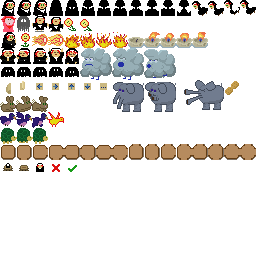
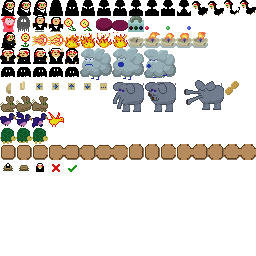
locks and treadles, and we're done with core gameplay

Changed region(s): [[0.375, 0.0625, 0.5938, 0.125], [0.7188, 0.0938, 0.75, 0.125]]

diff --git a/src/game/sprite/types/sprite_treadle.c b/src/game/sprite/types/sprite_treadle.c
@@ -1,0 +1,74 @@
+#include "game/penance.h"
+
+struct sprite_treadle {
+  struct sprite hdr;
+  int lampix;
+  int pressed;
+  int lit;
+  double clock;
+  uint8_t tileid0;
+};
+
+#define SPRITE ((struct sprite_treadle*)sprite)
+
+static int _treadle_init(struct sprite *sprite,const uint8_t *def,int defc) {
+  SPRITE->tileid0=sprite->tileid;
+  // Choose an index by counting existing treadles. We should already be in VISIBLE, check for it.
+  int i=GRP(VISIBLE)->spritec;
+  while (i-->0) {
+    const struct sprite *other=GRP(VISIBLE)->spritev[i];
+    if (other==sprite) continue;
+    if (other->type!=&sprite_type_treadle) continue;
+    SPRITE->lampix++;
+  }
+  return 0;
+}
+
+static int treadle_check_hero(const struct sprite *sprite) {
+  if (GRP(HERO)->spritec<1) return 0;
+  const struct sprite *hero=GRP(HERO)->spritev[0];
+  double dx=sprite->x-hero->x;
+  double dy=sprite->y-hero->y;
+  const double thresh=0.75;
+  if ((dx<-thresh)||(dx>thresh)) return 0;
+  if ((dy<-thresh)||(dy>thresh)) return 0;
+  return 1;
+}
+
+static void treadle_notify_lock(struct sprite *sprite) {
+  int i=GRP(VISIBLE)->spritec;
+  while (i-->0) {
+    struct sprite *lock=GRP(VISIBLE)->spritev[i];
+    if (lock->type!=&sprite_type_lock) continue;
+    sprite_lock_set_lamp(lock,SPRITE->lampix,SPRITE->lit);
+  }
+}
+
+static void _treadle_update(struct sprite *sprite,double elapsed) {
+  int npressed=treadle_check_hero(sprite);
+  if (npressed!=SPRITE->pressed) {
+    SPRITE->pressed=npressed;
+    if (SPRITE->pressed) {
+      //TODO Sound effect
+      sprite->tileid=SPRITE->tileid0+1;
+      SPRITE->lit=1;
+      treadle_notify_lock(sprite);
+    } else {
+      SPRITE->clock=2.250;
+    }
+  } else if (SPRITE->lit&&!SPRITE->pressed) {
+    if ((SPRITE->clock-=elapsed)<=0.0) {
+      //TODO Sound effect
+      sprite->tileid=SPRITE->tileid0;
+      SPRITE->lit=0;
+      treadle_notify_lock(sprite);
+    }
+  }
+}
+
+const struct sprite_type sprite_type_treadle={
+  .name="treadle",
+  .objlen=sizeof(struct sprite_treadle),
+  .init=_treadle_init,
+  .update=_treadle_update,
+};

diff --git a/src/game/sprite/types/sprite_lock.c b/src/game/sprite/types/sprite_lock.c
@@ -1,0 +1,53 @@
+#include "game/penance.h"
+
+struct sprite_lock {
+  struct sprite hdr;
+  uint8_t lamps; // 1,2,4
+};
+
+#define SPRITE ((struct sprite_lock*)sprite)
+
+static int _lock_init(struct sprite *sprite,const uint8_t *def,int defc) {
+  int x=(int)sprite->x,y=(int)sprite->y;
+  if ((x<0)||(y<0)||(x>=COLC)||(y>=ROWC)) return -1;
+  if (!g.map->tileprops[g.map->v[y*COLC+x]]) return -1; // Tile under me is vacant -- we're unlocked already.
+  return 0;
+}
+
+static void _lock_update(struct sprite *sprite,double elapsed) {
+}
+
+static void _lock_render(struct sprite *sprite,int16_t addx,int16_t addy) {
+  int16_t dstx=(int16_t)(sprite->x*TILESIZE)+addx;
+  int16_t dsty=(int16_t)(sprite->y*TILESIZE)+addy;
+  int texid=texcache_get_image(&g.texcache,sprite->imageid);
+  graf_draw_tile(&g.graf,texid,dstx,dsty,sprite->tileid,0);
+  if (SPRITE->lamps&1) graf_draw_tile(&g.graf,texid,dstx,dsty,sprite->tileid+1,0);
+  if (SPRITE->lamps&2) graf_draw_tile(&g.graf,texid,dstx,dsty,sprite->tileid+2,0);
+  if (SPRITE->lamps&4) graf_draw_tile(&g.graf,texid,dstx,dsty,sprite->tileid+3,0);
+}
+
+const struct sprite_type sprite_type_lock={
+  .name="lock",
+  .objlen=sizeof(struct sprite_lock),
+  .init=_lock_init,
+  .update=_lock_update,
+  .render=_lock_render,
+};
+
+void sprite_lock_set_lamp(struct sprite *sprite,int index,int value) {
+  if (!sprite||(sprite->type!=&sprite_type_lock)) return;
+  if ((index<0)||(index>7)) return;
+  if (value) SPRITE->lamps|=1<<index;
+  else SPRITE->lamps&=~(1<<index);
+  if (SPRITE->lamps==0x07) {
+    int x=(int)sprite->x,y=(int)sprite->y;
+    if ((x>=0)&&(y>=0)&&(x<COLC)&&(y<ROWC)) {
+      // Clearing the map cell manages the physics of unlocking, and also the persistence.
+      g.map->v[y*COLC+x]=0;
+    }
+    //TODO Sound effect
+    //TODO Fireworks?
+    sprite_kill_later(sprite);
+  }
+}

diff --git a/src/tool/main.c b/src/tool/main.c
@@ -432,6 +432,17 @@ static int sprite_cmd_groups(struct sr_encoder *dst,const char *src,int srcc,con
   if (sr_encode_intbe(dst,mask,4)<0) return -1;
   return 0;
 }
+ 
+static int sprite_cmd_layer(struct sr_encoder *dst,const char *src,int srcc,const char *srcpath,int lineno) {
+  int layer;
+  if ((sr_int_eval(&layer,src,srcc)<2)||(layer<-32768)||(layer>32767)) {
+    fprintf(stderr,"%s:%d: Expected integer in -32768..32767 for 'layer', found '%.*s'\n",srcpath,lineno,srcc,src);
+    return -2;
+  }
+  if (sr_encode_u8(dst,0x23)<0) return -1;
+  if (sr_encode_intbe(dst,layer,2)<0) return -1;
+  return 0;
+}
 
 /* Unknown sprite command.
  * We can do generic ones with a numeric opcode, they work exactly the same as map commands then.
@@ -501,6 +512,7 @@ static int digest_sprite(struct sr_encoder *dst,const char *src,int srcc,const c
     else if ((kwc==5)&&!memcmp(kw,"image",5)) err=sprite_cmd_image(dst,line+linep,linec-linep,srcpath,lineno);
     else if ((kwc==6)&&!memcmp(kw,"tileid",6)) err=sprite_cmd_tileid(dst,line+linep,linec-linep,srcpath,lineno);
     else if ((kwc==6)&&!memcmp(kw,"groups",6)) err=sprite_cmd_groups(dst,line+linep,linec-linep,srcpath,lineno);
+    else if ((kwc==5)&&!memcmp(kw,"layer",5)) err=sprite_cmd_layer(dst,line+linep,linec-linep,srcpath,lineno);
     else err=sprite_cmd_generic(dst,kw,kwc,line+linep,linec-linep,srcpath,lineno);
     if (err<0) {
       if (err!=-2) fprintf(stderr,"%s:%d: Unspecified error processing '%.*s' sprite command.\n",srcpath,lineno,kwc,kw);

diff --git a/src/game/sprite/sprite.h b/src/game/sprite/sprite.h
@@ -125,6 +125,8 @@ extern const struct sprite_type sprite_type_terminator;
 extern const struct sprite_type sprite_type_wind;
 extern const struct sprite_type sprite_type_dualephant;
 extern const struct sprite_type sprite_type_missile;
+extern const struct sprite_type sprite_type_treadle;
+extern const struct sprite_type sprite_type_lock;
 
 // ids get assigned in this order. Use the same as the ^ declarations above.
 #define FOR_EACH_SPRITE_TYPE \
@@ -137,7 +139,9 @@ extern const struct sprite_type sprite_type_missile;
   _(terminator) \
   _(wind) \
   _(dualephant) \
-  _(missile)
+  _(missile) \
+  _(treadle) \
+  _(lock)
 
 const struct sprite_type *sprite_type_by_id(int id);
 
@@ -147,5 +151,6 @@ void sprite_bonfire_set_ttl(struct sprite *sprite,double ttl);
 int sprite_candle_light(struct sprite *sprite); // 0 if invalid or already lit
 void sprite_missile_target_hero(struct sprite *sprite);
 void sprite_missile_launch(struct sprite *sprite,double dx,double dy);
+void sprite_lock_set_lamp(struct sprite *sprite,int index,int value);
 
 #endif

diff --git a/src/game/game.c b/src/game/game.c
@@ -27,10 +27,6 @@ static int penance_load_map_object(struct map *map) {
           struct sprite *sprite=sprite_spawn_with_type(x,y,&sprite_type_hero,0,0);
           if (!sprite) return -1;
         } break;
-      /*case 0x23: { // song XXX Song will only change programmatically.
-          int songid=(arg[0]<<8)|arg[1];
-          egg_play_song(songid,0,1);
-        } break;*/
       case 0x40: { // sprite
           double x=(double)arg[0]+0.5;
           double y=(double)arg[1]+0.5;
@@ -38,10 +34,7 @@ static int penance_load_map_object(struct map *map) {
           const uint8_t *serial=0;
           int serialc=maps_get_sprite(&serial,rid);
           struct sprite *sprite=sprite_spawn_for_map(x,y,serial,serialc);
-          if (!sprite) {
-            fprintf(stderr,"Failed to spawn sprite:%d for map:%d\n",rid,map->rid);
-            return -2;
-          }
+          if (!sprite) break; // It's ok, sprites are allowed to fail to abort construction.
         } break;
     }
   }

diff --git a/src/game/menu/menu_type_farewell.c b/src/game/menu/menu_type_farewell.c
@@ -110,7 +110,7 @@ static void _farewell_update(struct menu *menu,double elapsed) {
       const struct farewell_subtitle *st=farewell_subtitlev+MENU->subtitlep;
       MENU->subtitleclock+=st->duration;
       if (st->src&&st->src[0]) {
-        MENU->subtitle_texid=font_tex_multiline(g.font,st->src,-1,g.fbw,g.fbh-136,0xe0d8e8ff);
+        MENU->subtitle_texid=font_tex_multiline(g.font,st->src,-1,g.fbw,g.fbh-136,0xd0c8c0ff);
         egg_texture_get_status(&MENU->subtitlew,&MENU->subtitleh,MENU->subtitle_texid);
       }
     } else {

diff --git a/src/game/sprite/sprite.c b/src/game/sprite/sprite.c
@@ -91,6 +91,9 @@ struct sprite *sprite_spawn_with_type(
       case 0x22: { // tileid
           sprite->tileid=v[0];
         } break;
+      case 0x23: { // layer
+          sprite->layer=(int16_t)((v[0]<<8)|v[1]);
+        } break;
       case 0x40: { // grpmask
           int grpmask=(v[0]<<24)|(v[1]<<16)|(v[2]<<8)|v[3];
           int i=0,bit=1; for (;i<32;i++,bit<<=1) {

diff --git a/README.md b/README.md
@@ -9,17 +9,11 @@ For [GDEX Game Jam 2024](https://itch.io/jam/gdex-game-jam-2024), theme "FULL MO
 ## TODO
 
 Required:
-- [x] Initial keystrokes can get lost during the hello fade-out.
-- [ ] Challenges:
-- - [x] Wind that toggles on and off, so you have to turn into a flower when it's on.
-- - [x] Bullet hell that only a turtle can get thru alive.
-- - [ ] Multiple switches that you can't get between them fast enough, unless you're a rabbit. Introduce the switches first with an easier challenge.
+- [ ] Tints are broken. In web, the highlighted triangle is green. Should be yellow.
 - [ ] Temple interior.
-- [x] Use the bridge somewhere, it's a shame not to.
+- [ ] Placeholder graphics, all over the place.
 - [ ] Don't put anything burnable on the borders.
-- [x] Educate player about respell somehow.
 - [ ] Sound effects.
-- [ ] Allow hazard sprites to indicate explicit rejection direction.
 - [ ] Fireworks when transforming to/from animal.
 - [ ] Crow. Or maybe drop it. Is there any need for a crow's assistance?
 - [ ] Hello: Roll in credits after a delay?
@@ -29,7 +23,6 @@ Required:
 
 Stretch goals or uncertain:
 - [ ] Static map animation, eg ripples on water.
-- [ ] Solid sprites: Try not to need this, can we do without?
 - [ ] Visual transitions.
 - [ ] Music.
 - - [ ] Drums for Doors Without Walls.
